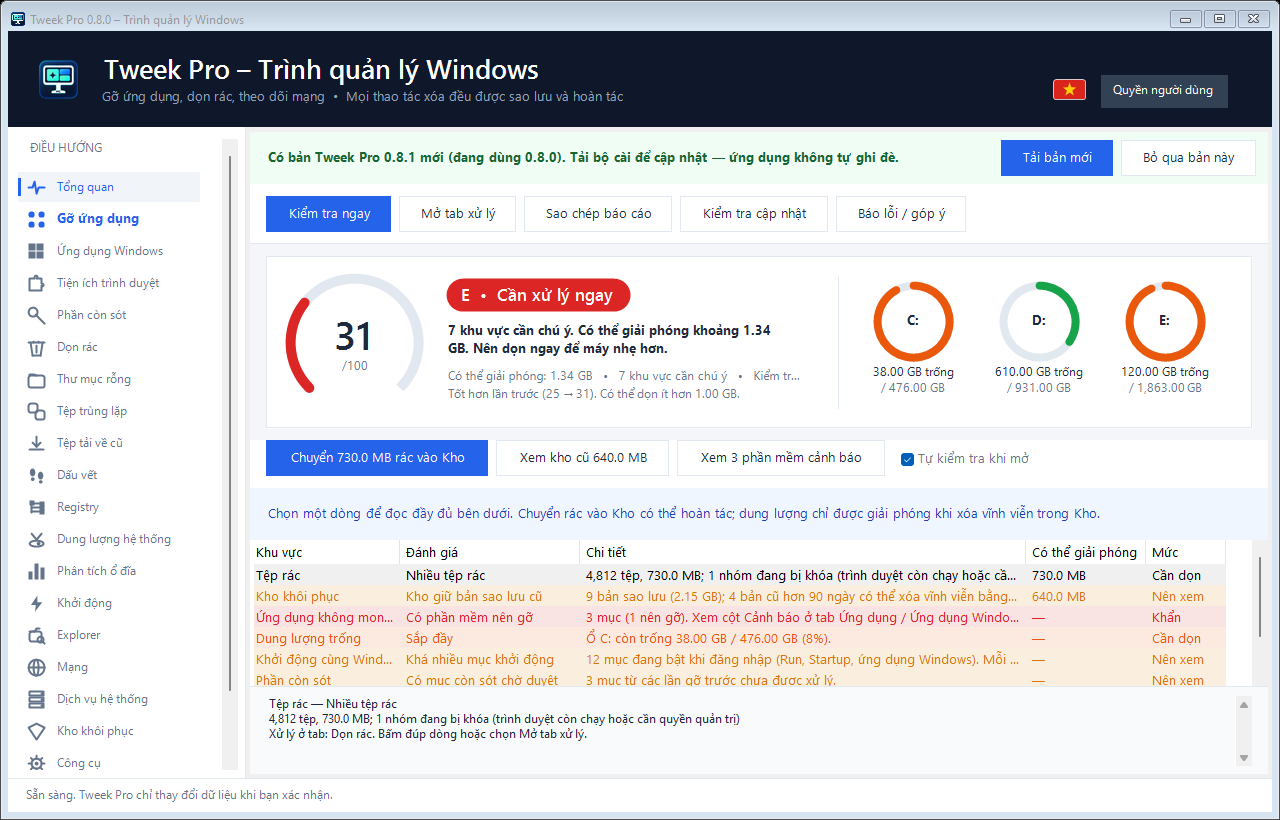
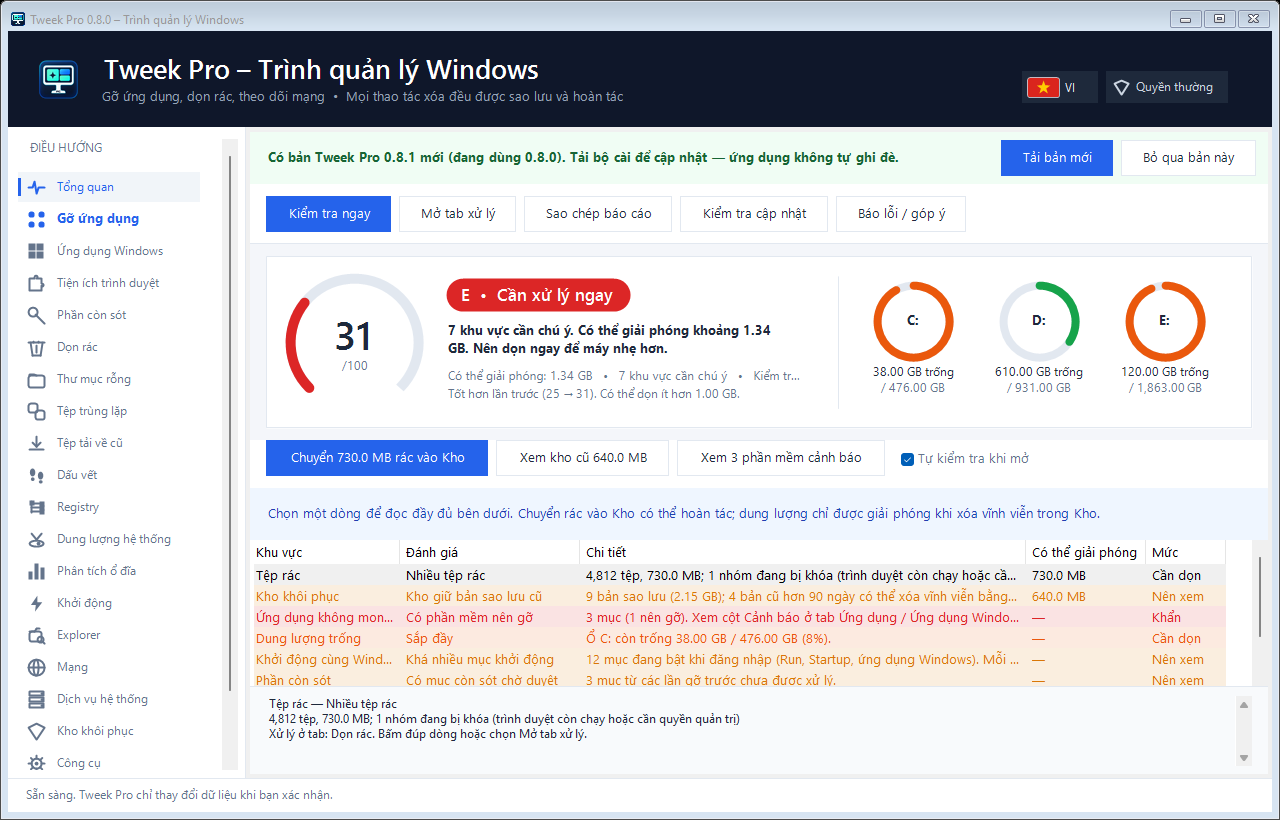
Refine compact language and privilege header controls

Changed region(s): [[0.7812, 0.0915, 0.9688, 0.1524]]

diff --git a/App.cs b/App.cs
@@ -177,9 +177,11 @@ namespace TweekPro {
   void BuildHeaderActions(Panel header){
    var right=new FlowLayoutPanel{Dock=DockStyle.Right,FlowDirection=FlowDirection.RightToLeft,WrapContents=false,Padding=new Padding(16,22,0,0),BackColor=Theme.Header};
    bool elevated=Core.Elevation.IsElevated;
-   var badge=new Label{Text=Core.Elevation.BadgeText,AutoSize=true,Padding=new Padding(10,6,10,6),Margin=new Padding(8,4,0,0),Font=Theme.Small,ForeColor=Color.White,BackColor=elevated?Theme.Success:Color.FromArgb(51,65,85)};
+   string privilege=Core.L.T(elevated?"Quản trị viên":"Quyền thường");
+   var badge=new Label{Text=privilege,AutoSize=false,Height=32,Width=TextRenderer.MeasureText(privilege,Theme.Small).Width+38,TextAlign=ContentAlignment.MiddleLeft,Padding=new Padding(28,0,8,0),Margin=new Padding(8,0,0,0),Font=Theme.Small,ForeColor=elevated?Color.FromArgb(167,243,208):Color.FromArgb(203,213,225),BackColor=Color.FromArgb(30,41,59),AccessibleName=Core.Elevation.BadgeText};
+   badge.Paint+=(s,e)=>{float scale=badge.DeviceDpi/96f;Branding.DrawTabGlyph(e.Graphics,"Kho khôi phục",new Rectangle((int)(8*scale),(badge.Height-(int)(14*scale))/2,(int)(14*scale),(int)(14*scale)),badge.ForeColor);};
    right.Controls.Add(badge);
-   var language=Branding.LanguageButton(Core.L.English?"EN":"VI",Core.L.T(Core.L.English?"Chuyển sang tiếng Việt":"Switch to English"));language.Margin=new Padding(8,2,0,0);
+   var language=Branding.LanguageButton(Core.L.English?"EN":"VI",Core.L.T(Core.L.English?"Chuyển sang tiếng Việt":"Switch to English"));language.Margin=new Padding(0);
    language.Click+=async(s,e)=>await Guard(()=>{SwitchLanguage();return Task.FromResult(0);});
    right.Controls.Add(language);
    header.Controls.Add(right);right.Width=right.PreferredSize.Width;

diff --git a/Branding.cs b/Branding.cs
@@ -25,9 +25,9 @@ namespace TweekPro {
 
   /// <summary>Compact header button showing the current language as its flag; clicking it switches the UI language.</summary>
   public static Button LanguageButton(string code,string tooltip){
-   var b=new Button{Size=new Size(48,32),FlatStyle=FlatStyle.Flat,Cursor=Cursors.Hand,BackColor=Theme.Header,ForeColor=Color.White,Text="",TabStop=false,UseVisualStyleBackColor=false};
+   var b=new Button{Size=new Size(76,32),FlatStyle=FlatStyle.Flat,Cursor=Cursors.Hand,BackColor=Color.FromArgb(30,41,59),ForeColor=Color.FromArgb(226,232,240),Text="",TabStop=true,UseVisualStyleBackColor=false};
    b.FlatAppearance.BorderSize=0;b.FlatAppearance.MouseOverBackColor=Color.FromArgb(30,41,59);b.FlatAppearance.MouseDownBackColor=Color.FromArgb(51,65,85);
-   b.Paint+=(s,e)=>DrawLanguageGlyph(e.Graphics,b.ClientRectangle,code,b.ForeColor);
+   b.Paint+=(s,e)=>{float scale=b.DeviceDpi/96f;DrawLanguageGlyph(e.Graphics,new Rectangle(0,0,(int)(42*scale),b.Height),code,b.ForeColor);TextRenderer.DrawText(e.Graphics,code,Theme.Small,new Rectangle((int)(40*scale),0,b.Width-(int)(42*scale),b.Height),b.ForeColor,TextFormatFlags.Left|TextFormatFlags.VerticalCenter);};
    new ToolTip().SetToolTip(b,tooltip);
    b.AccessibleName=tooltip;
    return b;

diff --git a/Core/LangEn.cs b/Core/LangEn.cs
@@ -17,6 +17,7 @@ namespace TweekPro.Core {
    {"Đã xử lý","Processed"},{"Đang dùng / không truy cập được","In use / inaccessible"},
    {"Đã thay đổi — giữ lại","Changed — kept"},{"Không còn tồn tại","No longer exists"},{"Lỗi xử lý","Processing error"},
    {"Không có tệp trong nhóm này.","No files in this category."},
+   {"Quản trị viên","Administrator"},{"Quyền thường","Standard user"},
    {"Gỡ ứng dụng","Uninstall apps"},
    {"ĐIỀU HƯỚNG","NAVIGATION"},
    {"Dọn dẹp","Cleanup"},

diff --git a/WORKSTATE.md b/WORKSTATE.md
@@ -2,12 +2,12 @@
 
 Updated: 2026-09-27 (Asia/Bangkok).
 Objective: simplify sidebar for nontechnical users, keep Applications/Cleanup fully expanded and make uninstall easy to find.
-Status: flat sidebar implemented and opened for review; all three headings removed, original link order preserved. DO NOT PUSH or replace installed build until owner approves this iteration (explicit latest instruction). Base main/origin 2ee0c71.
+Status: header refinement complete locally: flag + VI/EN button and compact shield privilege label, aligned 32px dark surfaces. Waiting for owner review. DO NOT PUSH or replace installed build until owner approves this iteration (explicit latest instruction). Base main/origin 2ee0c71.
 
 - One flat vertical list of 21 feature links with no group headings or nested panels. Uninstall apps remains bold blue directly below Overview; same order as previous review.
-- VI/EN translations and README pending 0.8.1 notes updated. All 22 tab screenshots regenerated locally in both languages; Vietnamese docs/screenshots; English in %TEMP%/TweekProUIReview-c4285c1db31242d3b70fb18efb67cacb/en.
+- VI/EN translations and README pending 0.8.1 notes updated. All 22 tab screenshots regenerated locally in both languages; Vietnamese docs/screenshots; English in %TEMP%/TweekProUIReview-e7f265abab8d40149b975338bf6ca1e9/en.
 - Build: 0 warnings/errors. Full self-test attempt did not run because Windows elevation was cancelled; do not claim a new full PASS. VI/EN UI smoke PASS: 21 clickable/keyboard-focusable links, flat list contains exactly 21 buttons and only the navigation caption, six cleanup filters correct. git diff --check passed.
-- Review app launched from workspace bin/SidebarReview/TweekPro-0.8.0.exe, PID 46340, title confirmed. Existing installed 0.8.0 remains unchanged. User should review the workspace window.
+- Review app launched from workspace bin/HeaderReview/TweekPro-0.8.0.exe, PID 51232. Existing installed 0.8.0 remains unchanged. User should review the workspace window.
 - Next: collect owner feedback/approval, rerun full elevated self-test before distribution, then update GitHub and latest screenshots only after approval. No new tag/release created.
 - Previous v0.8.0 Release and installed build verified in prior checkpoint; installation backup remains %LOCALAPPDATA%/TweekPro-install-backup-20260927-161501.
-- Preserve untracked .bridge/ and .cursor/. No verification commands still running; review app intentionally remains open. Older review PID 49596 was not closed. This local checkpoint is not a GitHub backup.
+- Preserve untracked .bridge/ and .cursor/. No verification commands still running; review app intentionally remains open. Older review PIDs 49596 and 46340 were not closed. This local checkpoint is not a GitHub backup.

diff --git a/README.md b/README.md
@@ -254,6 +254,8 @@ Chưa bật/tắt tiện ích trình duyệt tại chỗ (chỉ gỡ). Cài bả
 
 ### 0.8.1 (chưa phát hành)
 
+- **Thanh tiêu đề gọn hơn**: nút ngôn ngữ có cờ và mã VI/EN, nhãn quyền có biểu tượng khiên và nền tối nhẹ; hai mục cùng chiều cao, căn thẳng hàng.
+
 - **Điều hướng dễ dùng**: hiển thị toàn bộ chức năng theo thứ tự trong một danh sách dọc; bỏ tiêu đề nhóm và nút thu gọn. Mục **Gỡ ứng dụng** in đậm, màu nổi bật; hàng gọn hơn để thấy nhiều chức năng, thanh bên không tự nhảy khi đổi tab.
 
 ### 0.8.0 (27/09/2026)
